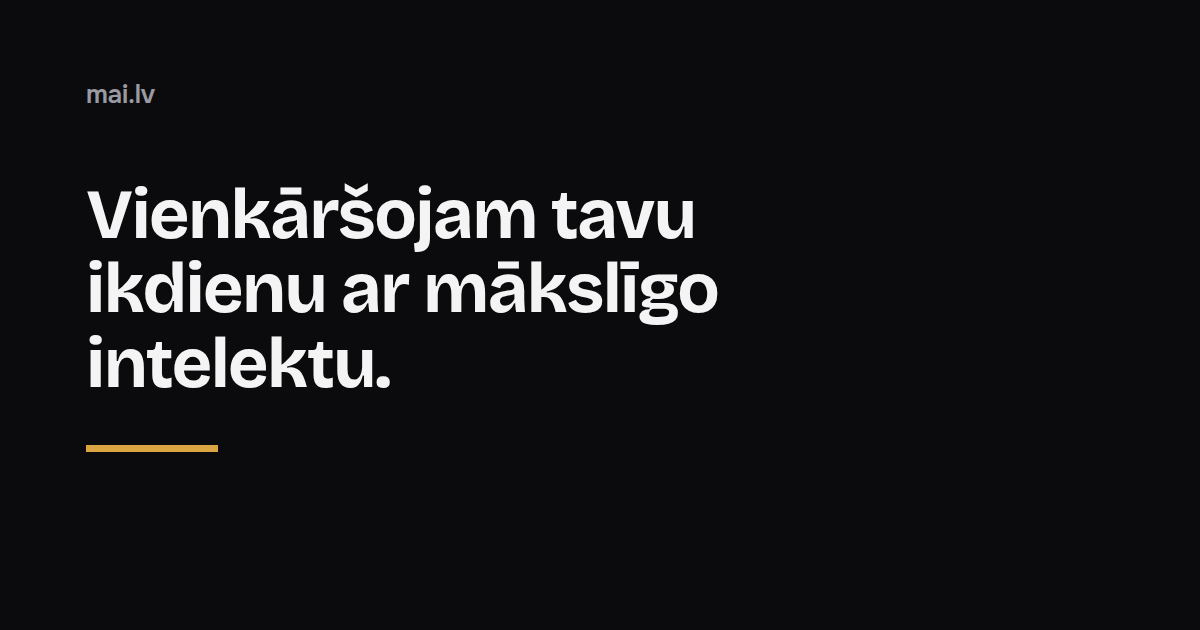
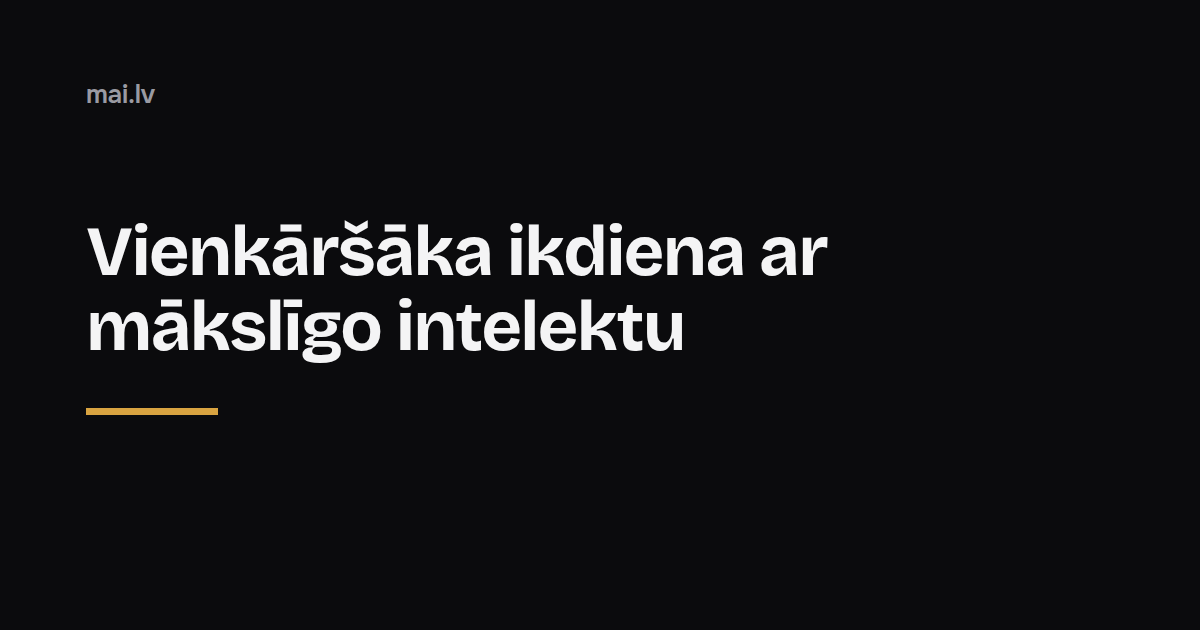
Headline: 'Vienkāršāka ikdiena' — no implied team
'Vienkāršojam' is first-person plural and reads as a company. It's one person.
Changed on the page, on the preview card and in the image alt; swept the rest of
the copy for other we-forms and found none.

Claude-Session: https://claude.ai/code/session_015qFLD38gicN4wKX6As4ndC

Changed region(s): [[0.0617, 0.2714, 0.7092, 0.6635], [0.0617, 0.6937, 0.185, 0.7238]]

diff --git a/tools/og-card.html b/tools/og-card.html
@@ -55,5 +55,5 @@
 </style>
 
 <div class="wm">mai.lv</div>
-<h1>Vienkāršojam tavu ikdienu ar mākslīgo intelektu.</h1>
+<h1>Vienkāršāka ikdiena ar mākslīgo intelektu</h1>
 <div class="rule"></div>
